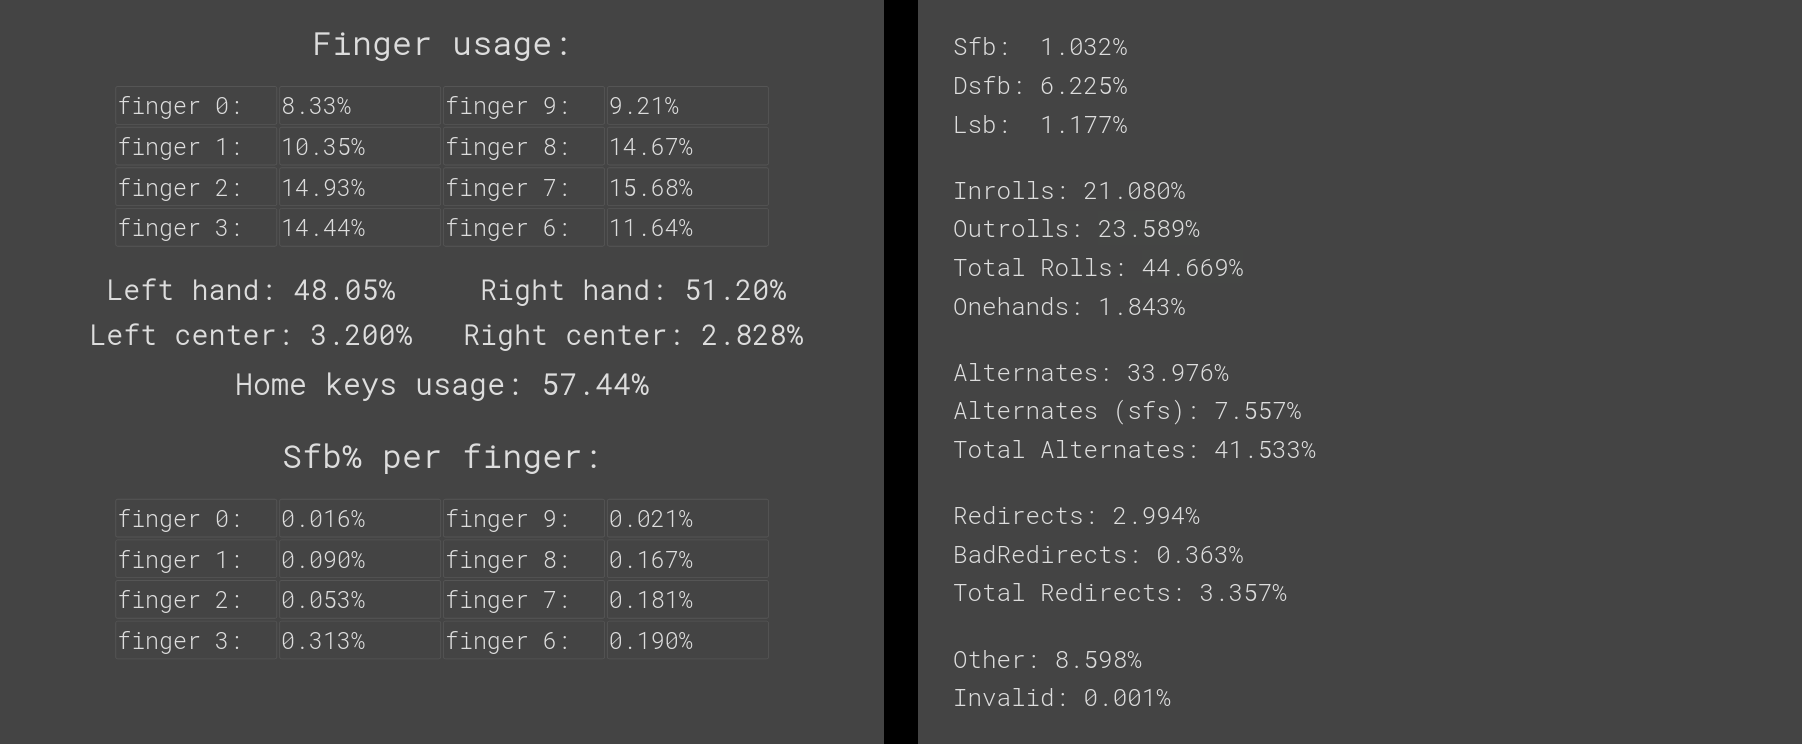
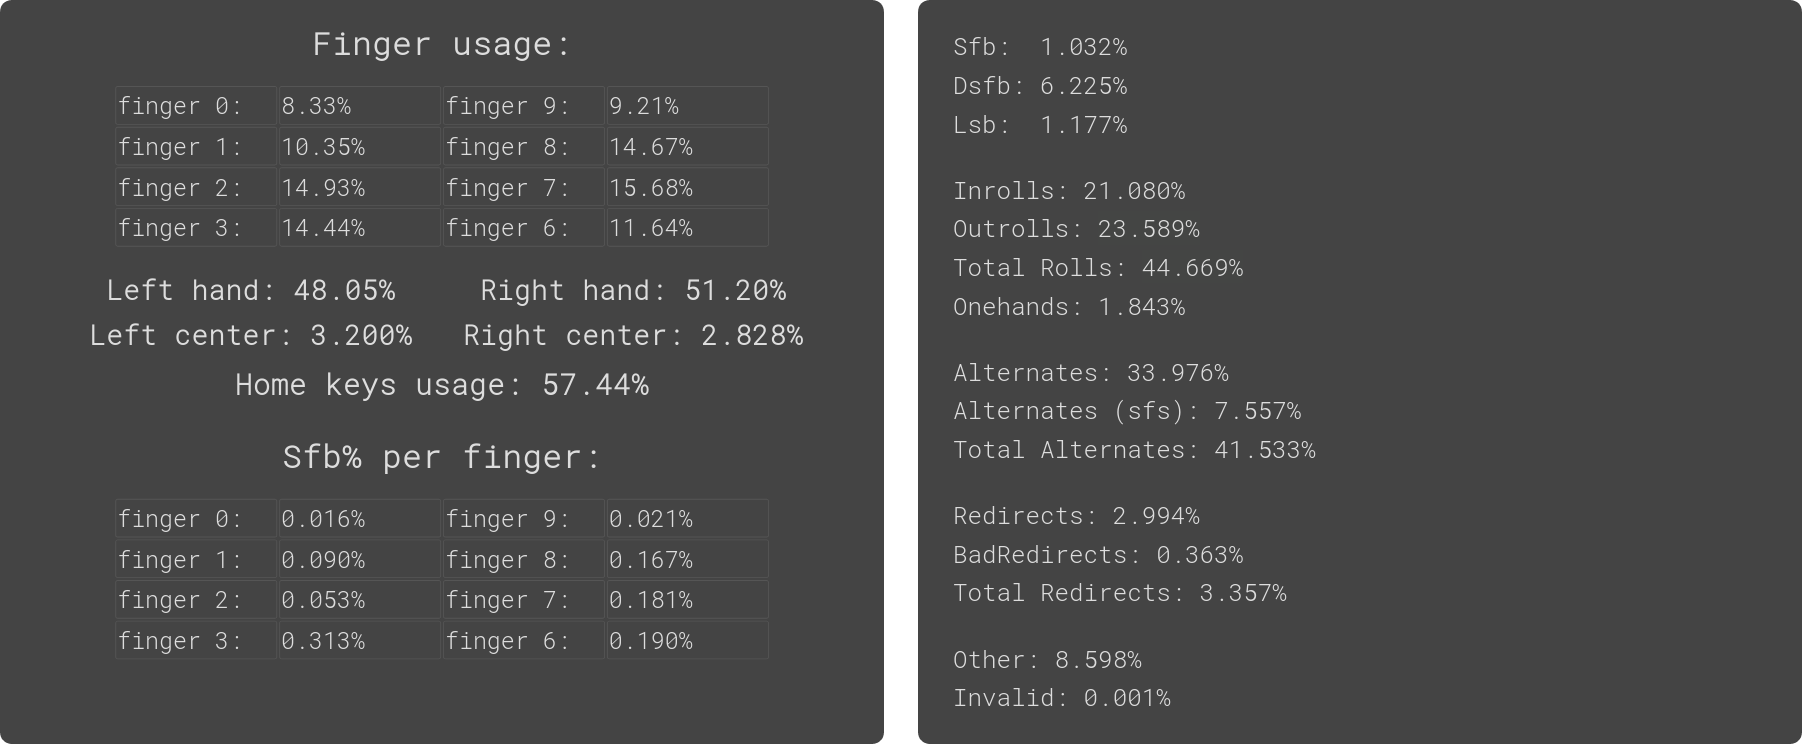
add layout description

Changed region(s): [[0.4661, 0.0, 0.5283, 1.0], [0.9945, 0.9892, 1.0, 1.0], [0.9945, 0.0, 1.0, 0.0309]]

diff --git a/README.md b/README.md
@@ -14,6 +14,20 @@ B  R  D  C  Z    Q  F  O  U  .
 
 ![LTS on a column-staggered split keyboard, with the same 30 keys divided into two five-column halves.](images/lts-split.svg)
 
+### About LTS
+
+**Graphite-inspired:** LTS is a personal, Graphite-inspired English keyboard layout that emphasizes bottom-row access and convenient Vim commands. It preserves Graphite's broad consonant/vowel organization and, under conventional touch-typing fingering, keeps 24 of the 26 letters on the same fingers while rearranging their row positions.
+
+**Bottom-row priority:** Unlike Graphite and Gallium, LTS deliberately favors typing below the home row rather than above it. In [Peter Norvig's frequency-weighted English book corpus](https://norvig.com/mayzner.html), approximately 28% of letters fall on the bottom row and only 8% on the top row, compared with roughly 10% and 24% respectively for Graphite. These figures count letters only, excluding spaces and punctuation. This makes LTS an alternative for typists who prefer downward finger movements over upward reaches.
+
+**Vim-focused:** The placement of `L` and `J` is tailored to Vim users. Swapping `L` and `R` puts rightward navigation on the home row, while moving the less frequently used replace-character command below it. Both letters remain on the same finger, preserving finger-based layout statistics, although English home-row usage decreases because `R` is more frequent. `J` moves from Graphite's upper pinky position to the right middle finger. `J` and `K` occupy the same row on different fingers, unlike Gallium, where both use the right index finger.
+
+**Consistent typing core:** Neither upper pinky position contains an alphabetic key. Punctuation retains the familiar `/ ?`, `; :`, `, <`, and `. >` pairings, and the same 30-key arrangement is used on regular and split keyboards. Other symbols belong outside this typing core.
+
+**Tradeoffs:** LTS makes deliberate tradeoffs rather than claiming universal improvement. Combinations such as `BR` and `RD` become same-row movements compared with Graphite, while `RM` spans both outer rows. Moving `J` introduces same-finger combinations with `A` and `O`, modestly increasing measured same-finger bigrams. Period is also assigned to the right pinky, making Shift placement worth considering.
+
+**Who it is for:** LTS is for people who appreciate Graphite's underlying structure but prefer bottom-row movements and Vim-conscious key placement.
+
 ### Cyanophage Layout Playground
 
 ![LTS analysis in Cyanophage Layout Playground, showing finger usage, finger distance, bigrams, and trigram statistics.](images/cyanophage-layout-playground.png)
